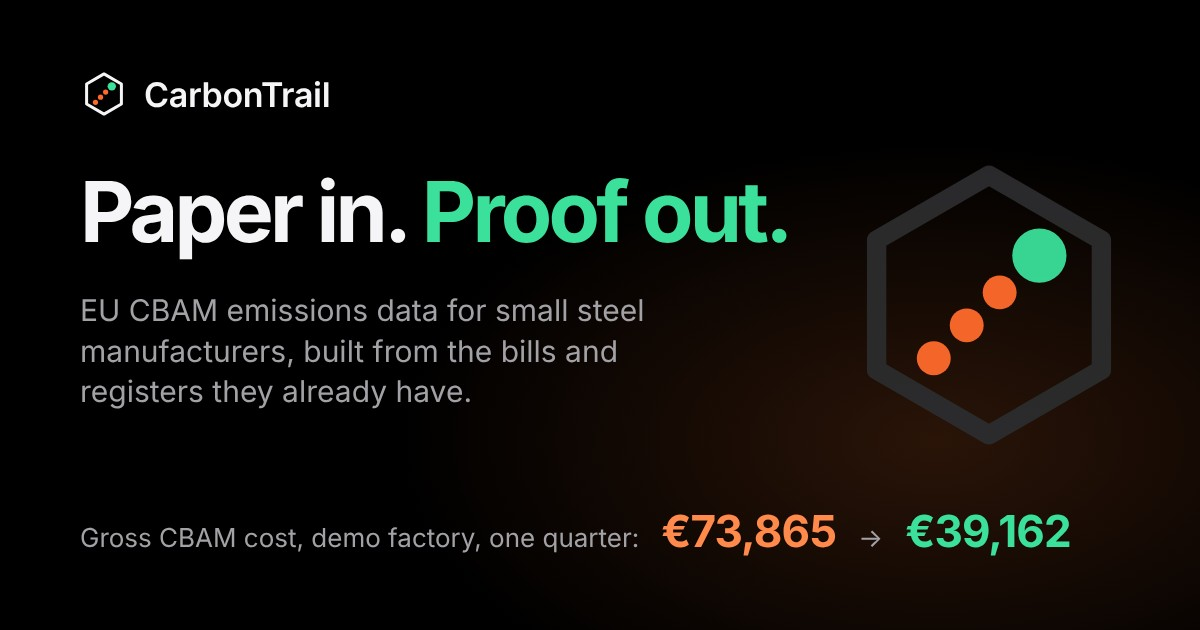
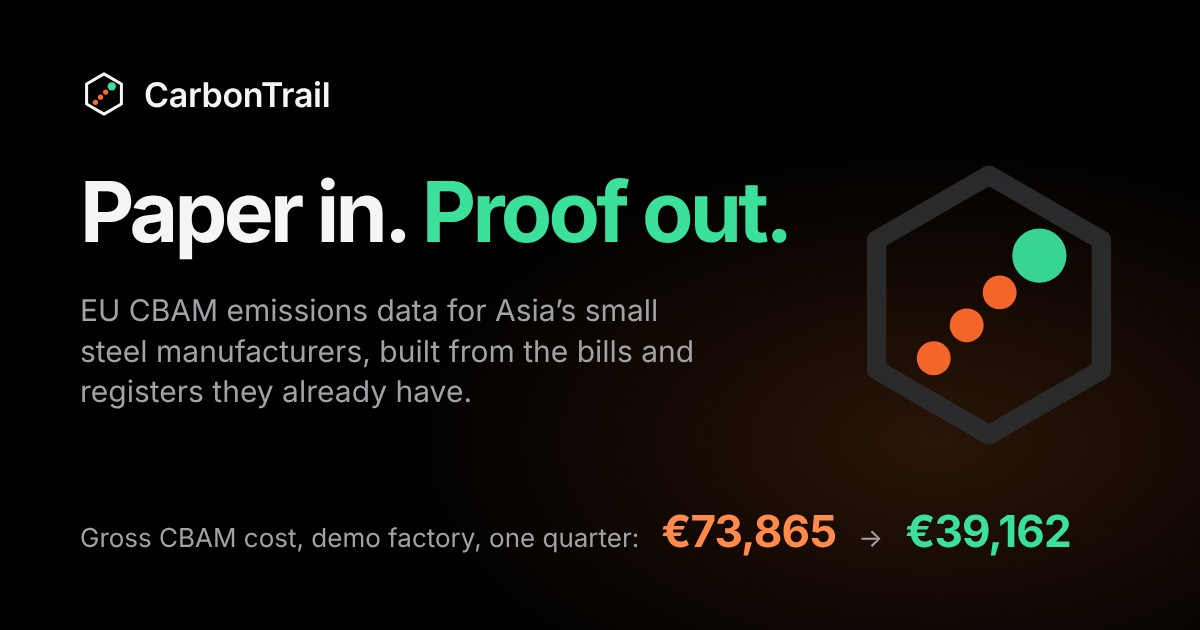
Frame CarbonTrail for Asia's exporters; Built by Team Verdant

Changed region(s): [[0.0617, 0.5429, 0.5858, 0.573], [0.4008, 0.4825, 0.555, 0.5127]]

diff --git a/app/static/index.html b/app/static/index.html
@@ -4,7 +4,7 @@
 <meta charset="utf-8">
 <meta name="viewport" content="width=device-width, initial-scale=1">
 <title>CarbonTrail · Paper in. Proof out.</title>
-<meta name="description" content="CarbonTrail turns a steel manufacturer's bills, invoices and handwritten registers into EU CBAM emissions data a verifier can trace to the source page.">
+<meta name="description" content="CarbonTrail turns an Asian steel manufacturer's bills, invoices and handwritten registers into EU CBAM emissions data a verifier can trace to the source page.">
 <meta name="theme-color" content="#000000">
 <script>document.documentElement.classList.add("js");</script>
 <link rel="icon" href="/favicon.svg" type="image/svg+xml">
@@ -12,7 +12,7 @@
 <meta property="og:type" content="website">
 <meta property="og:site_name" content="CarbonTrail">
 <meta property="og:title" content="CarbonTrail · Paper in. Proof out.">
-<meta property="og:description" content="EU CBAM emissions data for small steel manufacturers, built from the bills, invoices and handwritten registers they already have.">
+<meta property="og:description" content="EU CBAM emissions data for Asia’s small steel manufacturers, built from the bills, invoices and handwritten registers they already have.">
 <meta property="og:url" content="https://carbontrail-629415533355.asia-south1.run.app/">
 <meta property="og:image" content="https://carbontrail-629415533355.asia-south1.run.app/img/og.jpg">
 <meta property="og:image:width" content="1200">
@@ -22,8 +22,8 @@
 <link rel="preconnect" href="https://fonts.googleapis.com">
 <link rel="preconnect" href="https://fonts.gstatic.com" crossorigin>
 <link href="https://fonts.googleapis.com/css2?family=Inter:opsz,wght@14..32,300..800&family=JetBrains+Mono:wght@400;500;600&display=swap" rel="stylesheet">
-<link rel="stylesheet" href="/styles.css?v=20261018k">
-<link rel="stylesheet" href="/landing.css?v=20261018k">
+<link rel="stylesheet" href="/styles.css?v=20261018l">
+<link rel="stylesheet" href="/landing.css?v=20261018l">
 <link rel="modulepreload" href="/vendor/three.module.min.js">
 </head>
 <body class="mode-landing">
@@ -59,7 +59,7 @@
     <!-- 3D stage: the hero bolt, the journey and how it works -->
     <div class="stage3d" id="stage">
       <section class="hero" id="hero">
-        <p class="hero-eyebrow">CBAM evidence for small steel manufacturers</p>
+        <p class="hero-eyebrow">CBAM evidence for Asia’s small steel manufacturers</p>
         <h1><span class="g-steel">Paper in.</span> <span class="g-proof">Proof out.</span></h1>
         <p class="hero-sub">Your factory already has the numbers. We turn the paperwork<br class="br-d"> into emissions data your EU buyer can trace.</p>
         <div class="hero-ctas">
@@ -125,6 +125,7 @@
         <div class="wrap">
           <p class="sec-eyebrow reveal">The border has changed. Your paperwork hasn’t.</p>
           <h2 class="sec-title reveal">No emissions figure?<br class="br-d"> Your buyer pays for the default.</h2>
+          <p class="sec-body reveal sec-lead">The rule is European. The cost lands on Asia’s exporters. India, China, Viet Nam, Indonesia, Korea, Japan, Taiwan and Thailand all ship steel to the EU, and most of their small factories have no carbon team.</p>
           <div class="bento">
             <article class="tile t-wide reveal"><p class="t-k">Since 1 January 2026</p><p class="t-big">CBAM is live.</p><p class="t-b">EU importers of steel, aluminium, cement, fertiliser, hydrogen and electricity owe for the carbon embedded in what they import. That’s CBAM, the EU Carbon Border Adjustment Mechanism.</p></article>
             <article class="tile t-dark reveal"><p class="t-k">CBAM certificate, Q2 2026</p><p class="t-big g-ember">€75.28</p><p class="t-b">per tonne of CO2e, for goods imported that quarter. Q3: €82.32.</p></article>
@@ -138,7 +139,7 @@
         <div class="wrap">
           <p class="sec-eyebrow reveal">Start with your everyday records</p>
           <h2 class="sec-title reveal">You make bolts.<br class="br-d"> Not carbon reports.</h2>
-          <p class="sec-body reveal sec-lead">You already keep the bills, mill statements and production books. CarbonTrail reads what you have, so you don’t need a carbon team or a consultant-heavy project to get started. Built for fastener makers in Ludhiana, Rajkot, Bekasi and beyond.</p>
+          <p class="sec-body reveal sec-lead">You already keep the bills, mill statements and production books. CarbonTrail reads what you have, so you don’t need a carbon team or a consultant-heavy project to get started. Built for fastener makers across Asia, from Ludhiana and Rajkot to Bekasi.</p>
         </div>
         <div class="gallery" id="gallery" tabindex="0" aria-label="Documents CarbonTrail reads">
           <figure class="g-card"><img src="/samples/07_production_register_apr-jun.jpg" alt="Handwritten production register in Hindi and English" loading="lazy"><figcaption><b>A register written by hand.</b> Hindi and English, with a crossed-out 61.5 corrected to 62.5. Caught, and flagged for a human.</figcaption></figure>
@@ -267,7 +268,7 @@
             <div><p>Product</p><a href="#why">Why CBAM</a><a href="#how">How it works</a><a href="#proof">The money</a><a href="#faq">Questions</a><button type="button" class="foot-btn" data-run-demo>Run the demo</button></div>
             <div><p>More</p><button type="button" class="foot-btn" data-open="ask">Ask about CBAM</button><a href="#trust">Under the hood</a><a href="https://github.com/preetham1930/carbontrail" target="_blank" rel="noopener">Source code</a></div>
           </div>
-          <p class="foot-copy">© 2026 CarbonTrail · Traceable evidence, not automatic certification. Independent accredited verification is required.</p>
+          <p class="foot-copy">© 2026 CarbonTrail · Built by Team Verdant · Traceable evidence, not automatic certification. Independent accredited verification is required.</p>
         </div>
       </footer>
     </div>
@@ -423,9 +424,9 @@
   <form id="ask-form" class="ask-form"><input id="ask-input" placeholder="Type a question" autocomplete="off" aria-label="Question"><button class="btn small primary">Ask</button></form>
 </dialog>
 
-<script src="/app.js?v=20261018k" defer></script>
-<script type="module" src="/landing.js?v=20261018k"></script>
-<script type="module" src="/journey.js?v=20261018k"></script>
-<script type="module" src="/paper.js?v=20261018k"></script>
+<script src="/app.js?v=20261018l" defer></script>
+<script type="module" src="/landing.js?v=20261018l"></script>
+<script type="module" src="/journey.js?v=20261018l"></script>
+<script type="module" src="/paper.js?v=20261018l"></script>
 </body>
 </html>

diff --git a/README.md b/README.md
@@ -2,7 +2,7 @@
 
 ![CarbonTrail: Paper in. Proof out.](docs/banner.jpg)
 
-**Paper in. Proof out.** CarbonTrail turns a small steel manufacturer's electricity bills, fuel invoices, purchase statements and handwritten production registers into EU CBAM embedded-emissions data that an accredited verifier can trace back to the source page.
+**Paper in. Proof out.** CarbonTrail turns a small Asian steel manufacturer's electricity bills, fuel invoices, purchase statements and handwritten production registers into EU CBAM embedded-emissions data that an accredited verifier can trace back to the source page.
 
 Built by **Team Verdant** for the Google Cloud AI Builder Cup 2026 (JAPAC) · Track: **Manufacturing: Intelligent Operations & Industrial Efficiency**
 
@@ -14,7 +14,7 @@ Built by **Team Verdant** for the Google Cloud AI Builder Cup 2026 (JAPAC) · Tr
 
 Since **1 January 2026**, EU importers of iron & steel, aluminium, cement and fertilisers pay for the carbon embedded in what they buy (Regulation (EU) 2023/956, definitive period). The importer can only use the exporter's own figure if the exporter supplies installation-level data calculated with the EU method (Implementing Regulation (EU) 2025/2547) and verified by an accredited verifier. Otherwise, the importer must use the EU **default value plus a mark-up** of 10% in 2026, 20% in 2027 and 30% from 2028 (IR (EU) 2025/2621).
 
-For a fastener maker in Ludhiana, Rajkot or Bekasi, that data lives on paper: photographed LPG invoices, a mill's statement of supplies, a production register written in Hindi and English. Their EU buyers increasingly move to suppliers who can produce the numbers. Fastmarkets estimates India alone will bear about 18% of all CBAM costs.
+The rule is European, but the cost lands on Asia's exporters: India, China, Viet Nam, Indonesia, Korea, Japan, Taiwan and Thailand all ship steel to the EU. For a fastener maker in Ludhiana, Rajkot or Bekasi, the data the EU method needs lives on paper: photographed LPG invoices, a mill's statement of supplies, a production register written in Hindi and English. Their EU buyers increasingly move to suppliers who can produce the numbers. Fastmarkets estimates India alone will bear about 18% of all CBAM costs.
 
 ## What CarbonTrail does
 
